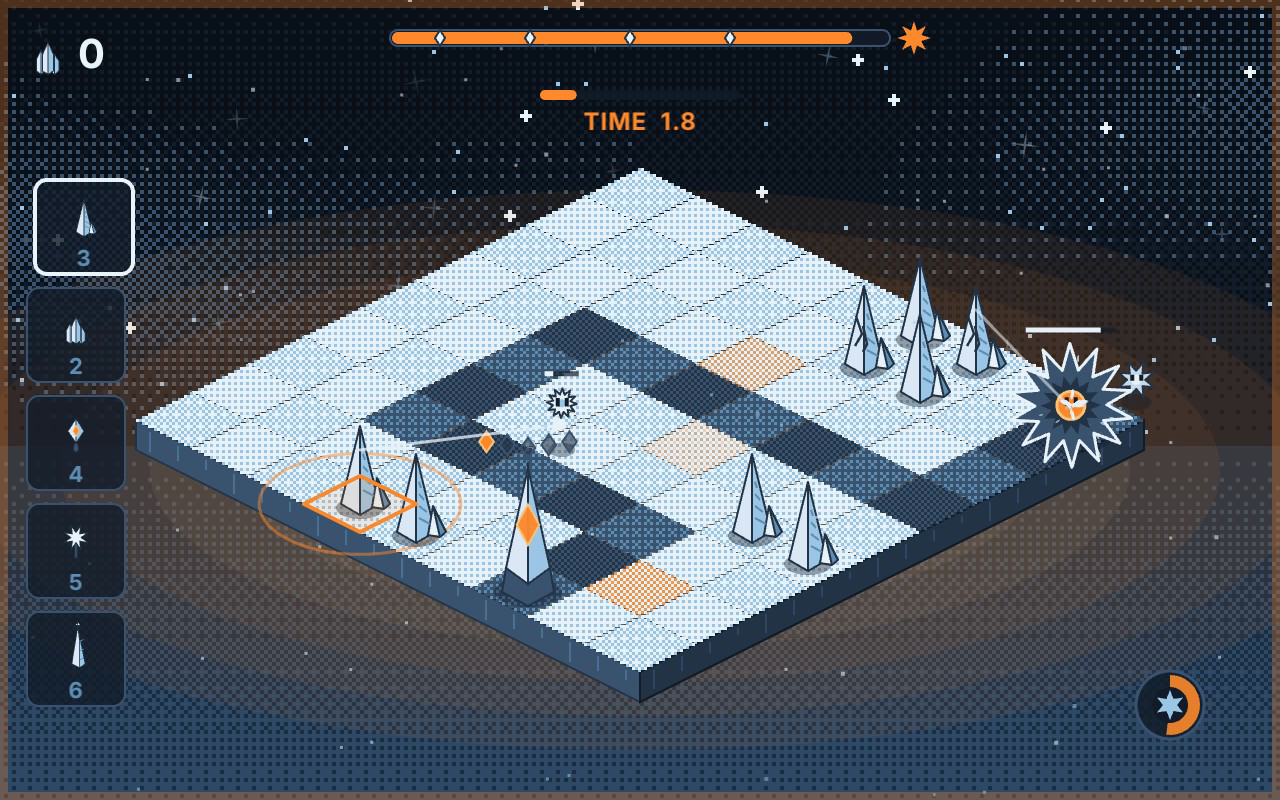
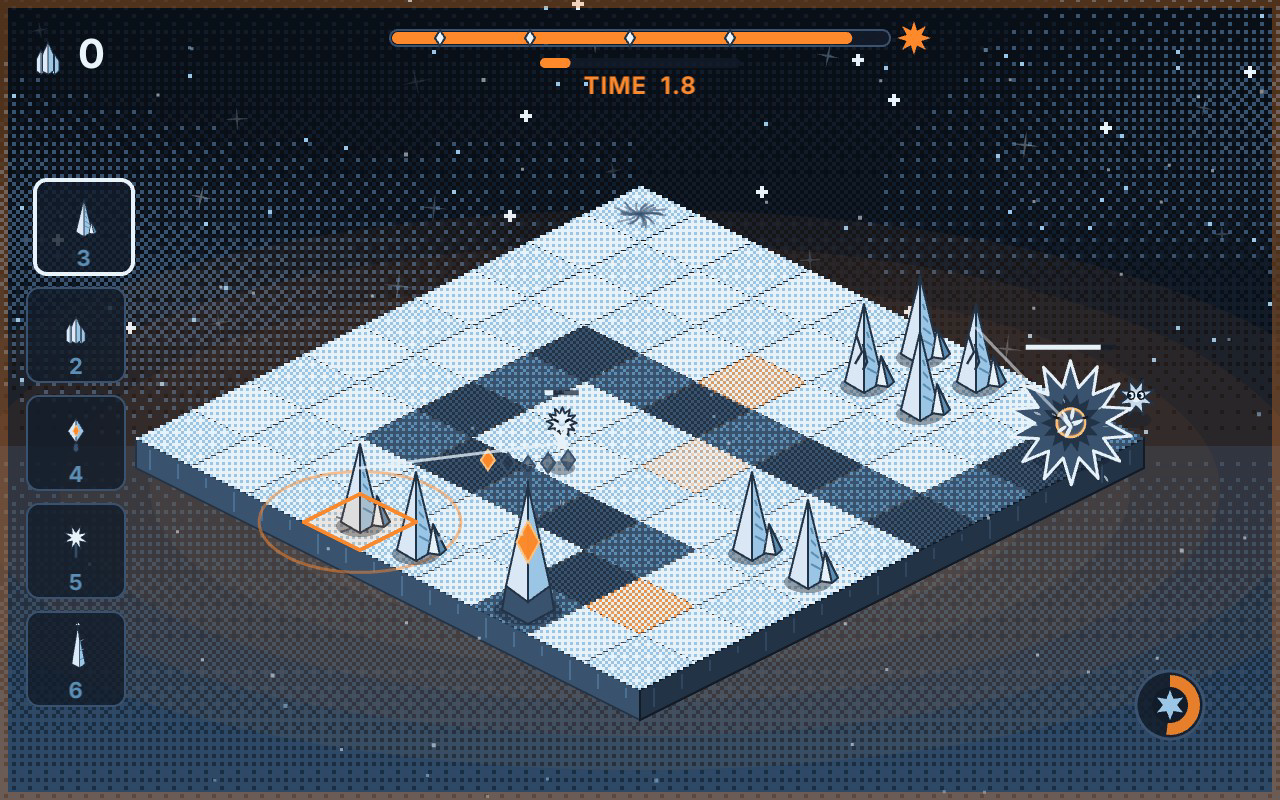
Stillwinter: final polish, media, post mortem update
Claude-Session: https://claude.ai/code/session_011JBjUtYihjRYh297KB5YQM

Changed region(s): [[0.0938, 0.2188, 0.9062, 0.9062], [0.4062, 0.0625, 0.5625, 0.1875]]

diff --git a/tests/unit/stillwinter.test.ts b/tests/unit/stillwinter.test.ts
@@ -218,3 +218,13 @@ describe('Stillwinter music passes the repo quality gate', () => {
     expect(new Set(Object.values(m).map((s) => s.root + s.scale)).size).toBe(1);
   });
 });
+
+describe('genre roll script', () => {
+  it('is seeded and picks one of five genres', async () => {
+    const { execFileSync } = await import('node:child_process');
+    const run = (seed: string) => execFileSync('node', ['scripts/genre-roll.mjs', '--seed', seed], { encoding: 'utf8' });
+    expect(run('2026-10-30')).toBe(run('2026-10-30'));
+    expect(run('2026-10-30')).toMatch(/ROLLED: tower-defense/);
+    expect(run('x').match(/candidates: (.*)/)![1].split(', ').length).toBe(5);
+  });
+});

diff --git a/runs/2026-10-30-stillwinter/postmortem.md b/runs/2026-10-30-stillwinter/postmortem.md
@@ -5,8 +5,8 @@ Core before polish: yes. The bare sim (no render) was played by bots first; the 
 Did it work (honest read): feel checklist 44 pass, 2 fail (no trails; idle bot proves nothing moves, which is the theme itself, not back pressure), 9 untested (all the [Slone] feel items), 4 n/a. The shaky items: reward-cue meaning, whole-tone ladders, whether Cold Snap is big enough.
 Measured (telemetry, 3 seeds, sim only): greedy completes all 3 (92 to 95 s of thawed time), 28 to 31 kills, loses 3 to 4 hearts; random bot completes 0 of 3 in 120 s (dawn 10 to 62%); shatter-spam probe fails or stalls (51 avg score vs greedy 165). longest frozen stretch (greedy) 0.5 s, 5 enemy kinds, 2 warm fronts per run. Real-time in headless Chromium: 60 fps, inputToAudioMs 1.7; inputToVisualMs reads 137 ms because the software renderer is slow, so it says nothing about the Deck.
 Believed (labeled, I cannot play or hear it): shattering should feel good because every break is stacked (hit-stop, shake, glass plus crunch plus a whoosh that climbs a whole tone per chain link, orange ripple, floating +time). The first 30 seconds before Crystal unlocks may feel stingy (a spike costs net 2 ice per 3 s of time). Frozen planning may feel calm or may feel like stalling; unknown.
-Degenerate strategies found: place-and-shatter on one cell near the beacon (fixed by making plain spire blasts weak and Crystals the bombs). Remaining: crystal "mines" next to the path are strong; the greedy bot never chains (max chain 1), so chain play is unmeasured.
-What I cut or ran out of time for: more maps (3 only, chosen by seed), spire upgrades, a "B" cursor jump, a post-win Polar Night mode.
+Degenerate strategies found: place-and-shatter on one cell near the beacon (fixed by making plain spire blasts weak and Crystals the bombs). Remaining: crystal "mines" next to the path are strong; a second bot (chain-cluster) plays for chains: it loses fewer hearts than greedy (0 to 3 vs 2 to 4), reaches max chain 3 to 5 and uses Cold Snap 1 to 2 times, so chains are the stronger line but not a runaway.
+What I cut or ran out of time for: more maps (3 only, chosen by seed), spire upgrades, a "B" cursor jump. Added late: Polar Night (Y after dawn).
 Surprises (follow the fun): the economy cliff, the spam probe beating the greedy bot, and one object with three reasons to break it; no pivots. See surprises.md.
 Biggest risk for Slone to check: the tempo of time. "Time released per shatter" (3 s) against enemy speed decides whether this feels like held breaths or like fidgeting. Try that knob first, then Wave frequency and Starting ice.
 Reusable tech merged to main: none (a test fix for the themes script's next-id check, which assumed the pool never shrinks).
@@ -14,4 +14,4 @@ Assets sourced: all synthesized or drawn in code (system font). Music composed b
 Theme picked and why: t018 "Time only moves when something breaks": it makes the clock the resource and gives tower defense a new verb.
 Themes added: "A failure that melts into the materials to rebuild"; "One object with three reasons to break it"; "Perfect information and no clock: only scarcity pushes back".
 Next time (proposed lesson, one data point): when time is frozen between decisions, execution difficulty disappears, so pressure must come from scarcity and from flow-driven, telegraphed threats; and a spend-to-act economy needs failure to refund materials or it snowballs.
-Run health: `npm install` had to be run first (node_modules absent, preflight crashed on the missing playwright package, then passed). The themes unit test asserted the pool never shrinks, so any night's resolve would have broken `npm test` on main; fixed in the test. Files opened outside the core set: docs/tech/07, 09, 10 and the music types (all allowed docs). No other nights' code opened. Wall clock about 1 hour of the 3.5-hour budget at first publish; the rest went into polish.
+Run health: `npm install` had to be run first (node_modules absent, preflight crashed on the missing playwright package, then passed). The themes unit test asserted the pool never shrinks, so any night's resolve would have broken `npm test` on main; fixed in the test. Files opened outside the core set: docs/tech/07, 09, 10 and the music types (all allowed docs). No other nights' code opened. Wall clock under 1 hour of the 3.5-hour budget at first publish; the extra time went into polish and content (Polar Night endless mode after dawn, frost shells, trails, crack decals, a chain-playing bot).

diff --git a/NIGHT_STATE.md b/NIGHT_STATE.md
@@ -1,7 +1,7 @@
 ```
 night: 2026-10-30-stillwinter
 started: 2026-10-30T00:13:27.900Z
-phase: test
+phase: done
 branch: proto/2026-10-30-stillwinter
 brief: briefs/2026-10-30-stillwinter.md
 lastGoodBuild: none
@@ -11,4 +11,5 @@ notes: one line per checkpoint
 - 0:10 phase=core sim, bots, render, music written; first browser run next
 - 0:17 phase=feel feel pass written (juice, audio, music); next: screenshots of events, extra content
 - 0:27 phase=test bots, tests, media, post mortem written; polishing
+- 0:33 phase=done published; polish pass complete
 ```
